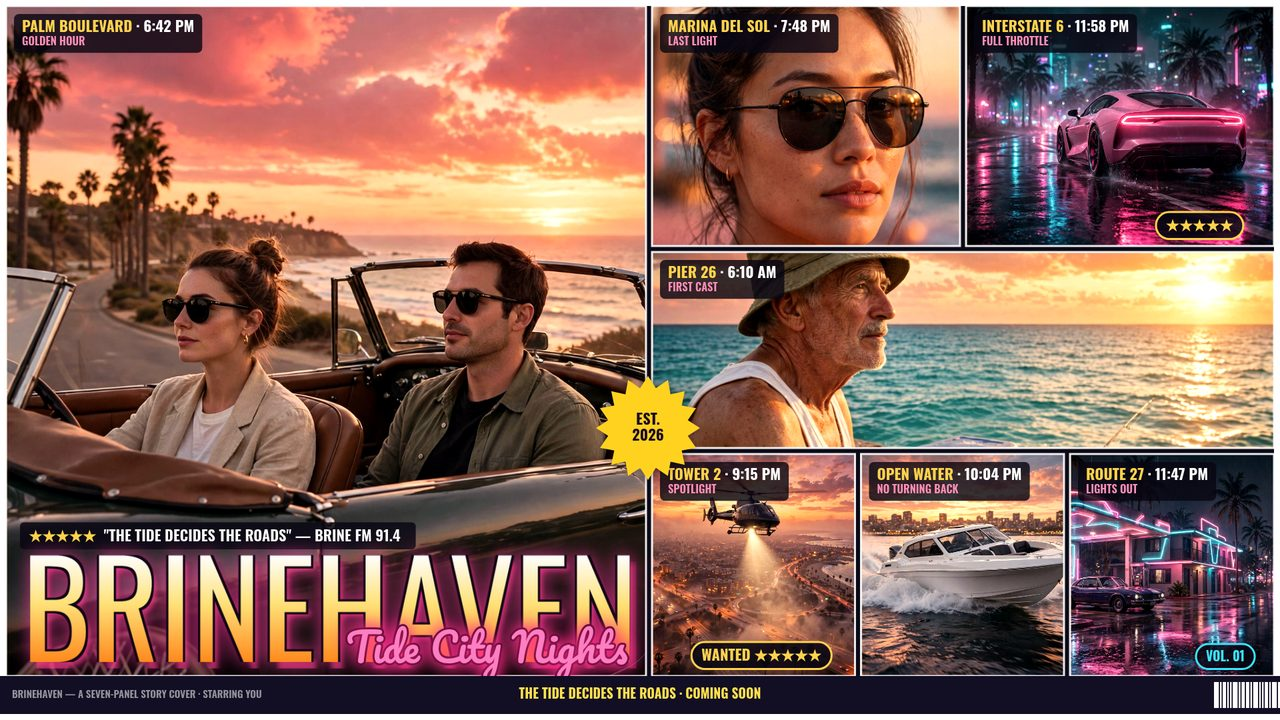
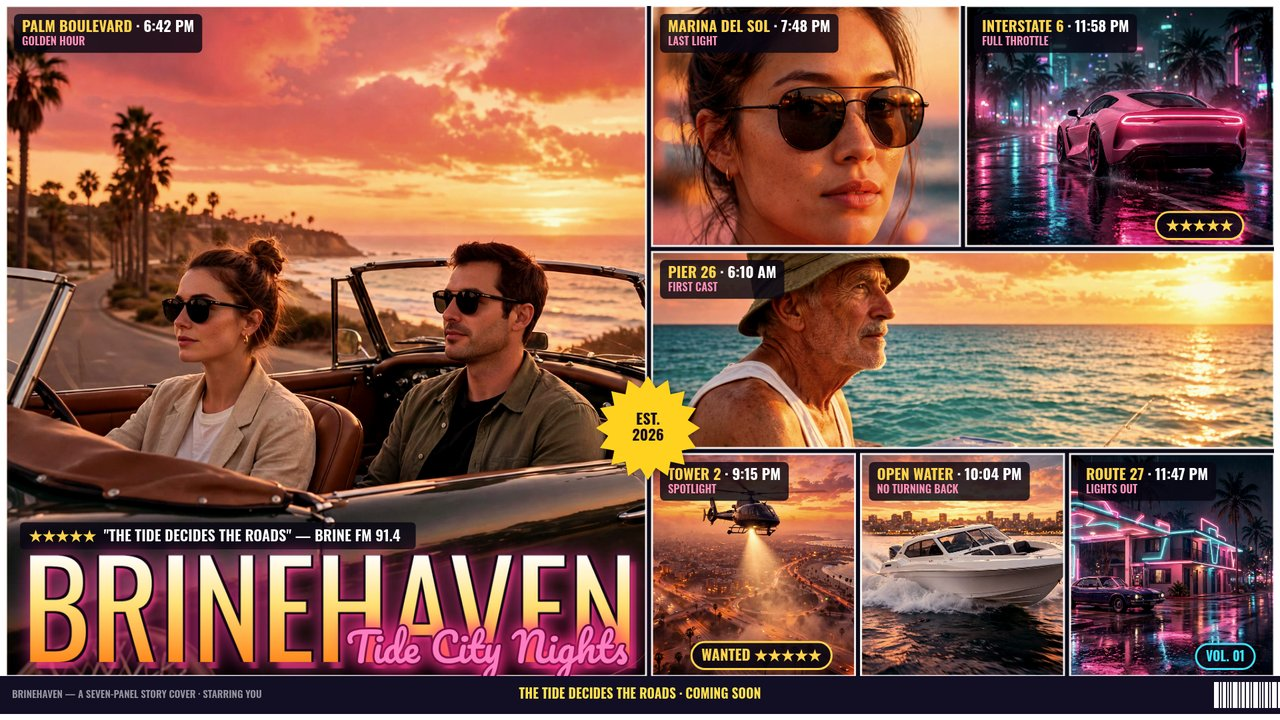
BRINEHAVEN Cover Studio v3 — warmer DAY grade (sat into rank-1 band)

diff --git a/app/grade-flip.js b/app/grade-flip.js
@@ -10,9 +10,9 @@
       id: 'day',
       name: 'DAY · Golden Hour',
       // Warm sunset spill: saturated, a touch of sepia, lifted light.
-      filter: 'saturate(1.18) sepia(0.22) brightness(1.05) contrast(1.03)',
-      overlayTop: 'rgba(255,122,40,0.14)',
-      overlayBottom: 'rgba(255,80,120,0.10)'
+      filter: 'saturate(1.66) sepia(0.36) brightness(0.95) contrast(1.06)',
+      overlayTop: 'rgba(255,122,40,0.24)',
+      overlayBottom: 'rgba(255,80,120,0.18)'
     },
     night: {
       id: 'night',
